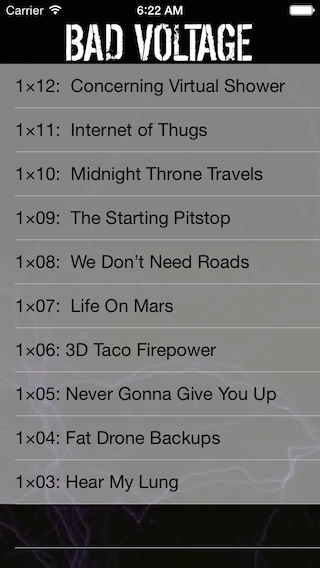
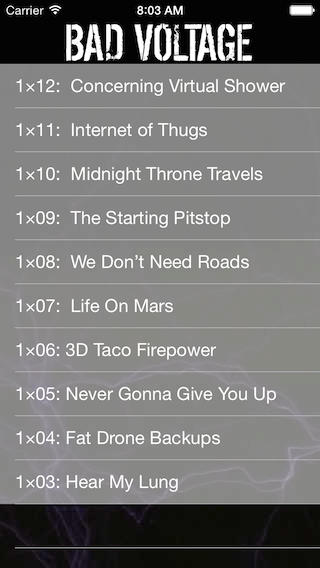
Adjusted font color on episode list.

diff --git a/BadVoltageApp/BadVoltageApp/BVPodcastListTableViewController.m b/BadVoltageApp/BadVoltageApp/BVPodcastListTableViewController.m
@@ -136,6 +136,7 @@ static UIImage *_bgImage;
                 reuseIdentifier:cellIdentifier];
         cell.contentView.backgroundColor = [UIColor clearColor];
         cell.backgroundColor = [UIColor colorWithWhite:1.0 alpha:0.3];
+        cell.textLabel.textColor = [UIColor whiteColor];
     }
     
     BVPodcastEpisode *episode = [_episodes objectAtIndex:[indexPath row]];
